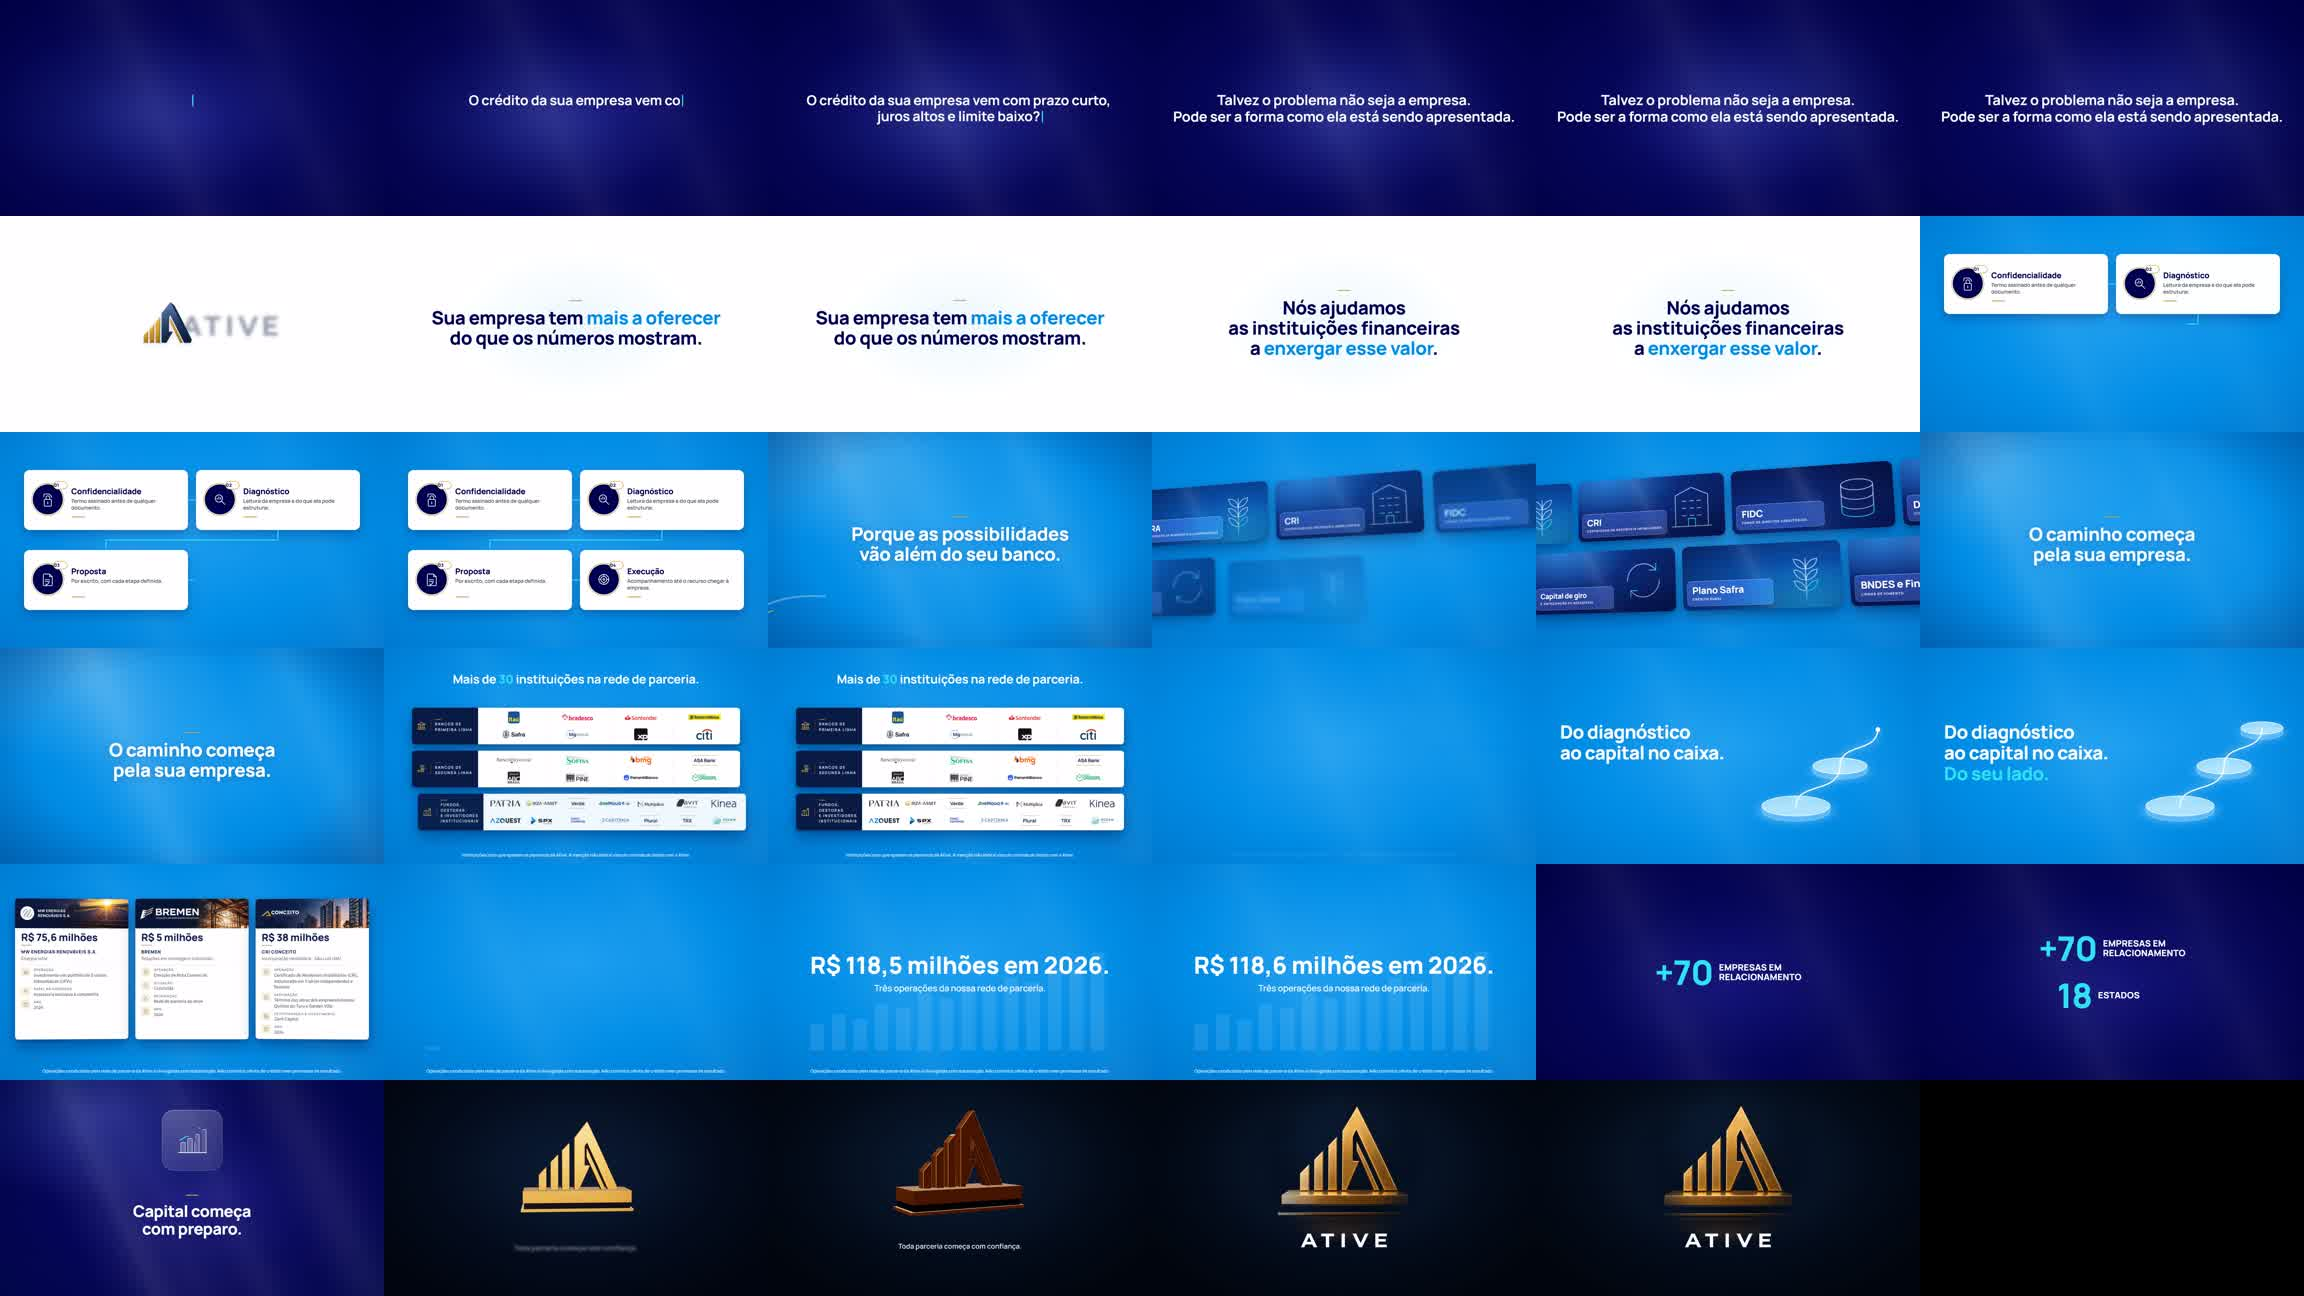
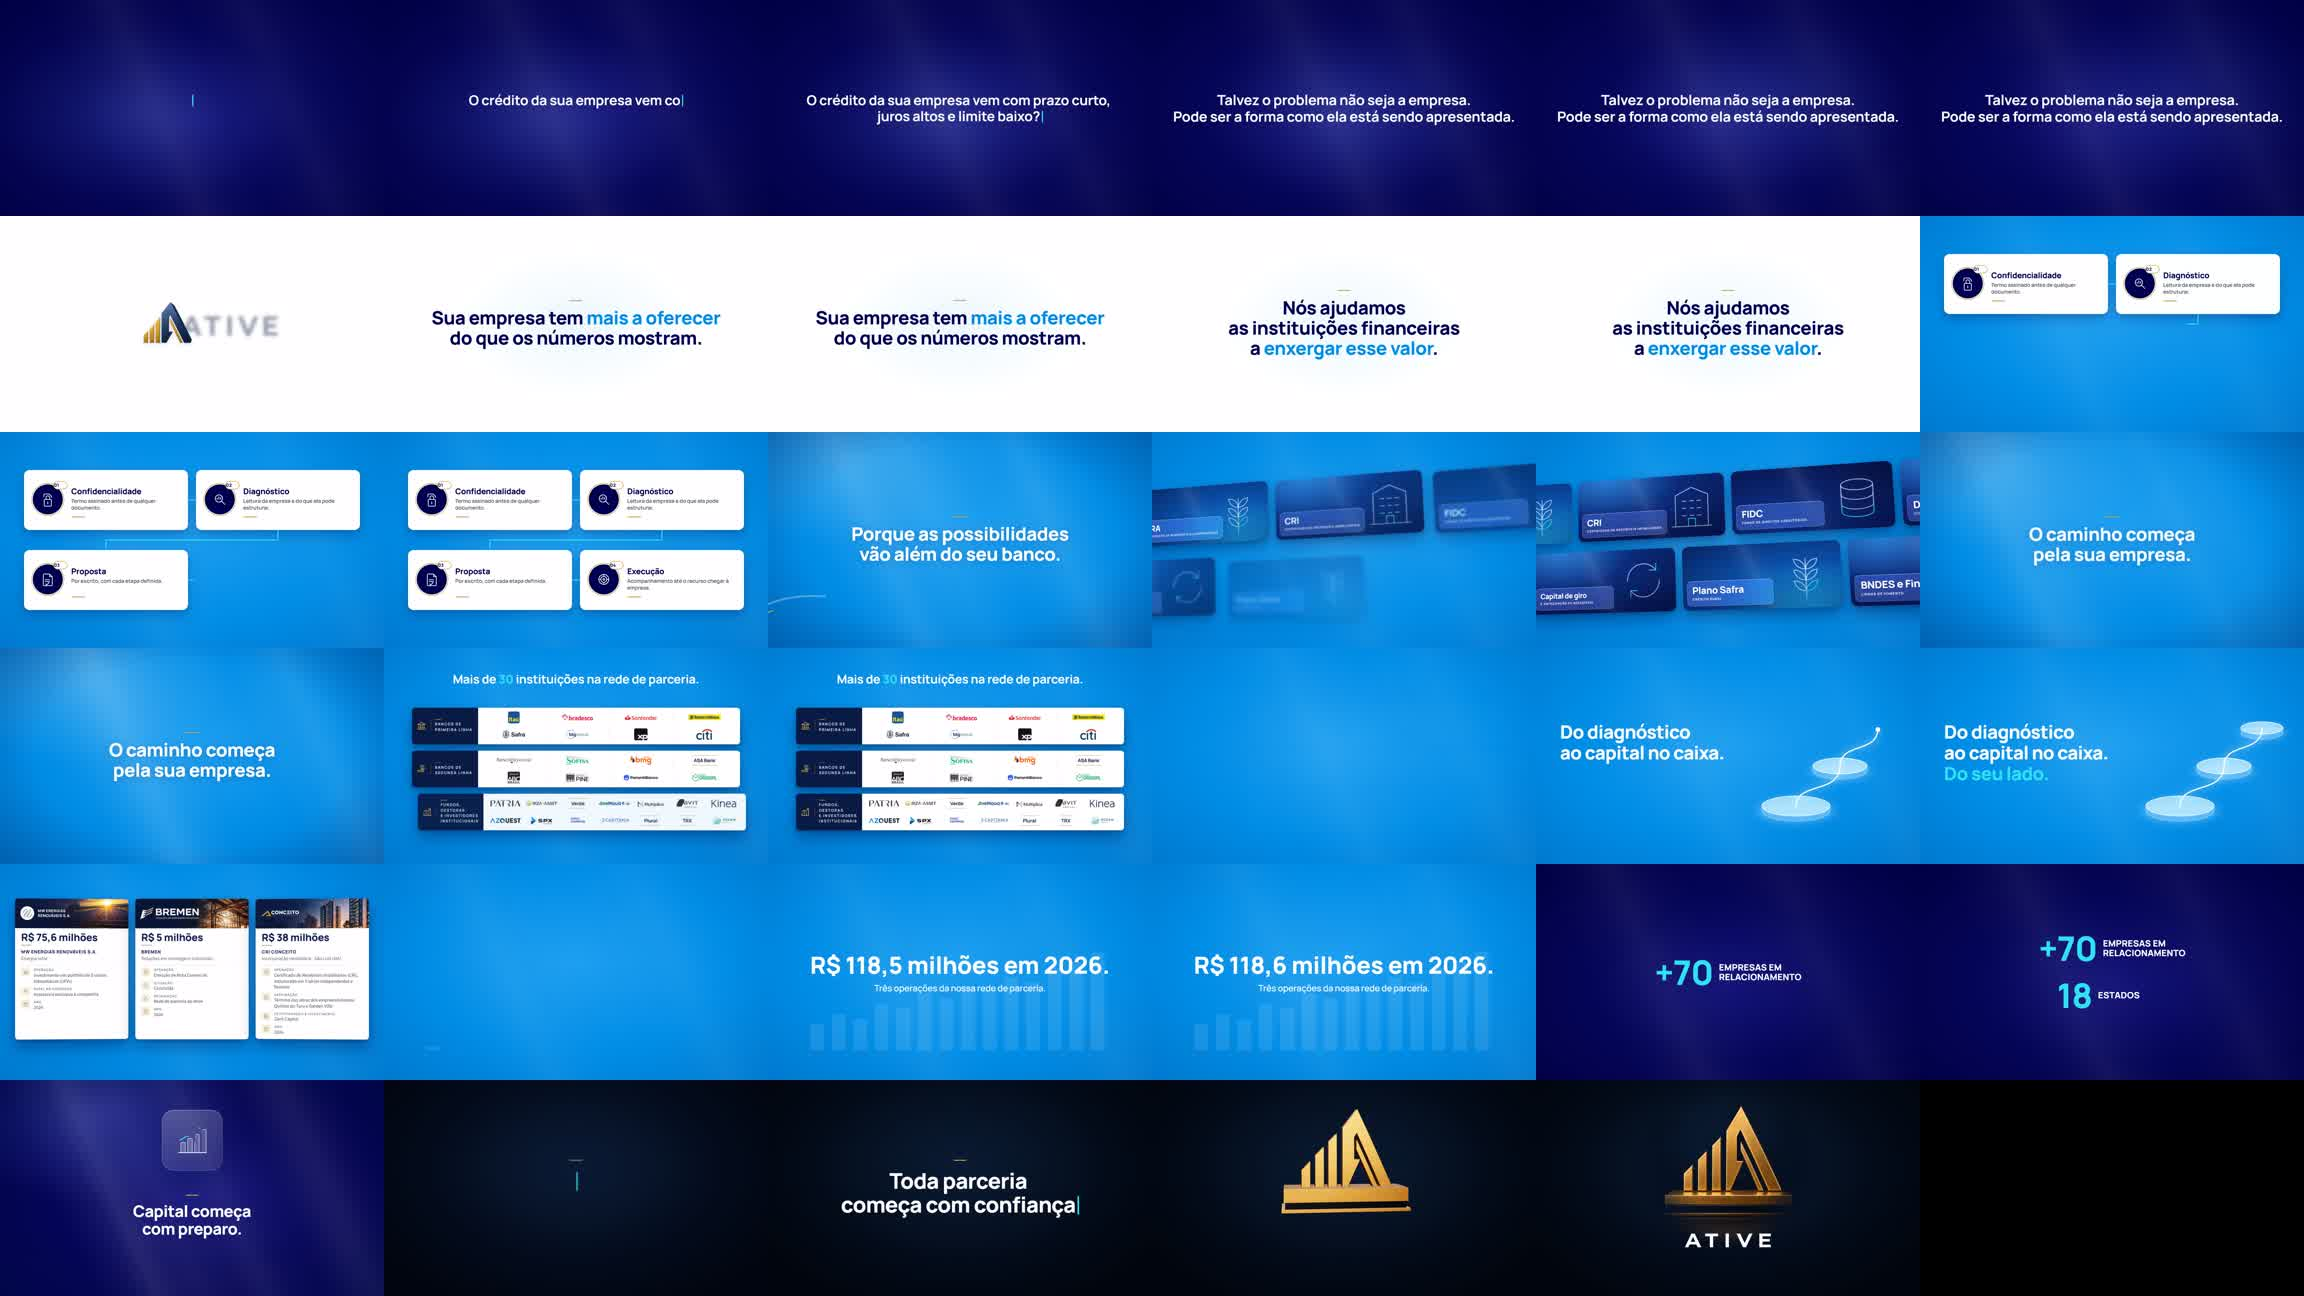
Estruturação v7d: avisos do rodapé retirados e encerramento igual ao Tributário v7c (render completo em uma sessão)
Tributário v7c aprovado pelo Jonas (04/10 ~07h15). Na Estruturação ele pediu tirar as frases pequenas do rodapé da
parede de parceiros e dos cartões de casos e aplicar o mesmo fechamento.

- v10.html: #legalRede e #legal desligados (opacity=0, comentário de bloco); encerramento v7c já estava na página.
- Render completo da Estruturação em uma sessão (2.115 quadros, sem emendas); quadros v7b guardados em narr1v7_q_v7b/.
- 1:10,50, −18,4 LUFS; freezedetect: telas brancas (14,9 e 17,6 s) e a pausa de 0,4 s da frase digitada (65,0 s), proposital.
- Registro v7 com a seção v7d e as medições; cópias no Drive.

diff --git a/videos/estruturacao-de-capital/fonte/video/v10.html b/videos/estruturacao-de-capital/fonte/video/v10.html
@@ -381,7 +381,7 @@ function render(t){
   const p=E(P(t,a,a+.7)),po=EIO(P(t,30.1,30.45));const push=1; // v7: sem zoom lento
   el.style.opacity=p*(1-po);el.style.filter=`blur(${(1-p)*14+po*14}px)`;
   el.style.transform=`translate(-50%,-50%) translateY(${-150+i*215}px) translateX(${(1-p)*420*(i%2?-1:1)}px) perspective(1600px) rotateY(${(1-p)*(i%2?10:-10)}deg) scale(${push})`;});
- $('legalRede').style.opacity=(t>=26.6&&t<30.45)?Math.min(E(P(t,26.6,27.2)),1-P(t,30.1,30.45)):0;
+ $('legalRede').style.opacity=0; /* v7d (04/10): aviso retirado da parede de parceiros, a pedido do Jonas */
 
  show($('t6'),t,30.5,33.1);
  if(t>=30.5&&t<33.1){const H=[130,215,310,430],X=[40,200,360,520],W=86;
@@ -406,7 +406,7 @@ function render(t){
  if(t>=37.5&&t<41.3)$('v118').textContent=fmt(118.6*E(P(t,37.6,39.3)),1);
  gh.style.opacity=(t>=37.4&&t<41.3)?(1-P(t,40.9,41.3)):0;gh.style.transform='translate(-50%,-30%)';
  gb.forEach((b,i)=>{const h=[.25,.35,.3,.45,.4,.55,.5,.62,.58,.7,.66,.8,.85,.95][i]*520;b.style.height=(h*E(P(t,37.4+i*.06,38.6+i*.06)))+'px';});
- $('legal').style.opacity=(t>=33.4&&t<41.2)?Math.min(E(P(t,33.4,34.0)),1-P(t,40.9,41.2)):0;
+ $('legal').style.opacity=0; /* v7d (04/10): aviso retirado dos cartões de casos, a pedido do Jonas */
 
  // ---- como começamos (passos do PDF, revelados em sequência)
  show($('t9'),t,41.35,46.0,{base:'translate(-50%,-50%) translateY(-330px)'});

diff --git a/videos/REGISTRO_v7_estruturacao_tributario_2026-10-03.md b/videos/REGISTRO_v7_estruturacao_tributario_2026-10-03.md
@@ -116,9 +116,33 @@ a v7b já mostrava o símbolo entrando, por isso não coincide). 254 quadros sub
 | 5 | `freezedetect` | os mesmos 3 pontos de antes (19,6 s tela branca · 24,3 s círculos no branco · 68,8 s retorno do feixe) |
 | 6 | telas conferidas | digitação 73,3–75,3 s · desfoque de saída 75,6 s · símbolo girando 76,2–77,8 s · ATIVE sob a pirâmide até 80,5 s · sem frase pequena |
 
-**Estruturação v7c:** página `v10.html` e `narr_1_Estruturacao_v7.html` já regeneradas (2.115 quadros, final de 4,0 s);
-o render do encerramento (quadros 1884–2115, emenda prevista em 1872–1884, só fundo) aguarda o OK do Jonas no
-Tributário — ele pediu um vídeo por vez.
+## Tributário v7c APROVADO (04/10 ~07h15: "agora sim... muito bom... esse está perfeito") e Estruturação v7d
+Antes de fechar, o Jonas pediu mais uma alteração na Estruturação: tirar as frases pequenas do rodapé que aparecem na
+parede de parceiros ("Instituições com que operam os parceiros da Ative…") e nos cartões de casos ("Operações conduzidas
+pela rede de parceria…", que cobre as duas telas de cartões) e aplicar o mesmo encerramento do Tributário.
+
+| Nº | Mudança | Como |
+|---|---|---|
+| 1 | aviso da parede de parceiros (`#legalRede`, página 26,6–30,45 s = vídeo 37,9–43,0 s) | desligado (`opacity=0`) |
+| 2 | aviso dos cartões de casos (`#legal`, página 33,4–41,2 s = vídeo 47,8–55,9 s, as duas telas) | desligado |
+| 3 | encerramento | igual ao Tributário v7c: "Toda parceria / começa com confiança." digitada em 62,8–65,4 s, desfoque, símbolo girando em 65,7 s, ATIVE embaixo da pirâmide, final de 4,0 s |
+| 4 | render | **completo, em uma sessão só** (2.115 quadros), em vez de três emendas em telas de texto; quadros v7b guardados em `narr1v7_q_v7b/` |
+
+Só restam estes dois avisos na página; a detecção por visibilidade (`legalRede`, `legal`, `endT`) devolveu lista vazia
+nos 2.115 quadros. A sugestão de levar os avisos para a descrição do vídeo continua valendo.
+
+**Estruturação v7d (render 04/10 ~07h25–07h56, completo, uma sessão):**
+
+| Nº | Medida | Resultado |
+|---|---|---|
+| 1 | saída | 1:10,50 · 2.115 quadros · 26,9 MB (1080p) · 6,7 MB (720p) |
+| 2 | som | −18,4 LUFS, pico −0,9 dBFS (ganho −2,5 dB pelo pico); só música 0–1,5 s: −18,4 LUFS |
+| 3 | `freezedetect` | 3 pontos: 14,9 s e 17,6 s (telas brancas de frase, como antes) e 65,0 s — novo e proposital: a frase "começa com confiança." termina de ser digitada em 65,0 s e fica parada 0,4 s antes de sair em desfoque (65,4 s); no Tributário a mesma pausa dura 0,26 s e não acusa |
+| 4 | telas conferidas | parede de parceiros (40 s), cartões (50 s) e R$ 118,6 milhões (55 s) sem frase no rodapé · digitação 63,3–65,4 s · símbolo girando 65,8–67,0 s · ATIVE sob a pirâmide de 68,7 s ao fim |
+| 5 | emendas | nenhuma (render inteiro em uma sessão) |
+
+Pendência de conteúdo que continua: os avisos de responsabilidade saíram das telas dos dois vídeos; vale levá-los para a
+descrição do vídeo ou para o rodapé da página onde ele for publicado.
 
 ## Arquivos
 `estruturacao-de-capital/fonte/video/v10.html` (Estruturação v7) · `tributario/trib_v7.html` · `fonte/video/v7_comum.js` ·
